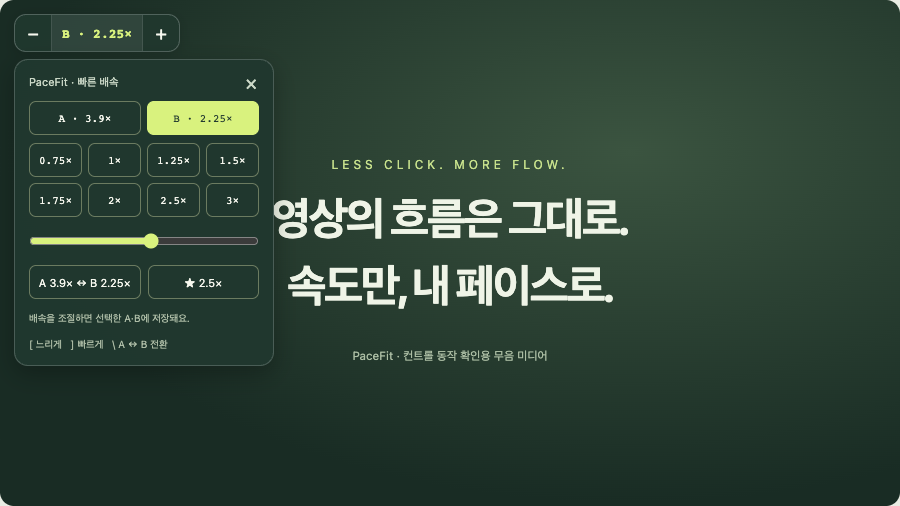
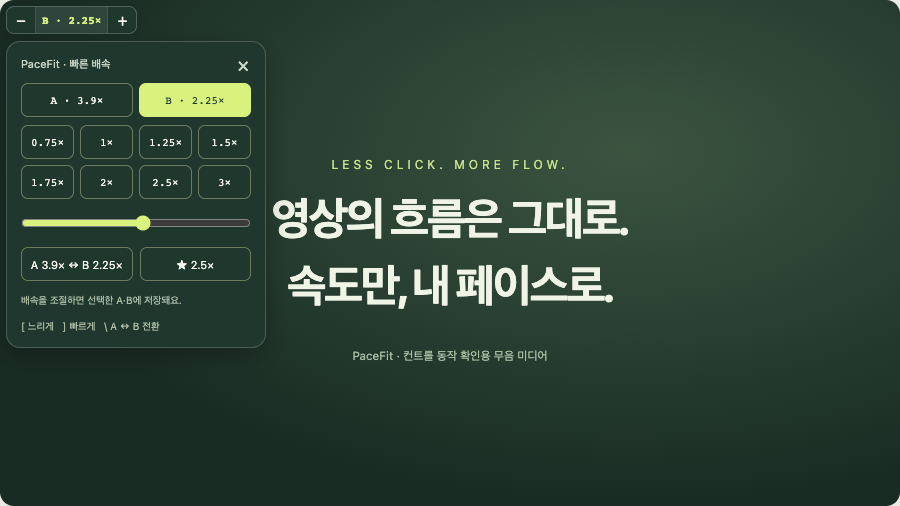
Shrink video speed controls and move closer to corner

Changed region(s): [[0.0, 0.0, 0.3111, 0.7115], [0.28, 0.5336, 0.3111, 0.5929]]

diff --git a/extension/overlay.js b/extension/overlay.js
@@ -5,12 +5,12 @@
     const host = document.createElement('div'); host.id = 'pacefit-controller';
     const shadow = host.attachShadow({ mode: 'open' });
     shadow.innerHTML = `<style>
-      :host{position:fixed!important;top:var(--pacefit-top,14px)!important;left:var(--pacefit-left,14px)!important;z-index:2147483647!important;font:13px -apple-system,BlinkMacSystemFont,"Segoe UI",sans-serif!important;color:#f7f8ef!important;line-height:1.4!important;letter-spacing:0!important;text-align:left!important;pointer-events:none!important;color-scheme:dark}
+      :host{position:fixed!important;top:var(--pacefit-top,6px)!important;left:var(--pacefit-left,6px)!important;z-index:2147483647!important;font:13px -apple-system,BlinkMacSystemFont,"Segoe UI",sans-serif!important;color:#f7f8ef!important;line-height:1.4!important;letter-spacing:0!important;text-align:left!important;pointer-events:none!important;color-scheme:dark}
       *{box-sizing:border-box}button,input{font:inherit}button{cursor:pointer;color:inherit}button:focus-visible,input:focus-visible{outline:3px solid #d9f27e;outline-offset:3px}button:disabled{opacity:.45;cursor:default}[hidden]{display:none!important}
       .controls{opacity:0;pointer-events:none;transition:opacity .15s}:host([data-hovered]) .controls,.controls:has(:focus-visible){opacity:1;pointer-events:auto}
-      .feedback{position:absolute;top:0;left:0;min-width:108px;white-space:nowrap;height:38px;padding:0 14px;display:flex;align-items:center;justify-content:center;border:1px solid #ffffff38;border-radius:12px;background:#20372ef0;box-shadow:0 2px 12px #0002;color:#d9f27e;font:600 15px ui-monospace,SFMono-Regular,monospace;opacity:0;pointer-events:none;transition:opacity .15s}:host([data-feedback]) .feedback{opacity:1}:host([data-hovered][data-controls-enabled]) .feedback,.controls:has(:focus-visible)~.feedback{opacity:0}
-      .bar{display:flex;align-items:center;width:max-content;border:1px solid #ffffff38;border-radius:12px;background:#20372ef0;box-shadow:0 2px 12px #0002;opacity:.85;transition:opacity .15s}.bar:hover,.bar:focus-within,.bar.open{opacity:1}
-      .bar button{border:0;background:none;min-width:36px;height:36px;padding:0 9px;font-size:19px}.bar button:hover{background:#ffffff12}.bar button:first-child{border-radius:11px 0 0 11px}.bar button:last-child{border-radius:0 11px 11px 0}.bar #speed{font:600 13px ui-monospace,SFMono-Regular,monospace;color:#d9f27e;min-width:92px;border-left:1px solid #ffffff18;border-right:1px solid #ffffff18}
+      .feedback{position:absolute;top:0;left:0;min-width:76px;white-space:nowrap;height:28px;padding:0 8px;display:flex;align-items:center;justify-content:center;border:1px solid #ffffff38;border-radius:8px;background:#20372ef0;box-shadow:0 2px 12px #0002;color:#d9f27e;font:600 11px ui-monospace,SFMono-Regular,monospace;opacity:0;pointer-events:none;transition:opacity .15s}:host([data-feedback]) .feedback{opacity:1}:host([data-hovered][data-controls-enabled]) .feedback,.controls:has(:focus-visible)~.feedback{opacity:0}
+      .bar{display:flex;align-items:center;width:max-content;border:1px solid #ffffff38;border-radius:8px;background:#20372ef0;box-shadow:0 2px 12px #0002;opacity:.85;transition:opacity .15s}.bar:hover,.bar:focus-within,.bar.open{opacity:1}
+      .bar button{border:0;background:none;min-width:28px;height:26px;padding:0 6px;font-size:16px}.bar button:hover{background:#ffffff12}.bar button:first-child{border-radius:7px 0 0 7px}.bar button:last-child{border-radius:0 7px 7px 0}.bar #speed{font:600 11px ui-monospace,SFMono-Regular,monospace;color:#d9f27e;min-width:68px;border-left:1px solid #ffffff18;border-right:1px solid #ffffff18}
       .panel{width:260px;margin-top:7px;padding:14px;border:1px solid #ffffff30;border-radius:14px;background:#20372efa;box-shadow:0 8px 24px #0004}.heading{display:flex;align-items:center;justify-content:space-between;margin-bottom:12px;font-size:11px;color:#cbd8c7}.heading button{width:28px;height:28px;margin:-7px -6px -7px 0;border:0;background:none;font-size:20px}
       .presets{display:grid;grid-template-columns:repeat(4,1fr);gap:6px}.presets button,.actions button{border:1px solid #6b7b60;border-radius:7px;background:none;padding:8px 3px;font:11px ui-monospace,SFMono-Regular,monospace;min-height:34px}.presets button[aria-pressed=true]{background:#d9f27e;color:#20372e;border-color:#d9f27e}.presets button:hover,.actions button:hover{border-color:#d9f27e}input[type=range]{width:100%;margin:16px 0;accent-color:#d9f27e;cursor:pointer}.actions{display:flex;gap:7px}.actions button{flex:1;font:11px -apple-system,BlinkMacSystemFont,sans-serif}.help{margin:12px 0 0;color:#aebda7;font-size:10px}.sr{position:absolute;width:1px;height:1px;clip:rect(0,0,0,0);overflow:hidden}
       .slot-presets{grid-template-columns:repeat(2,1fr);margin-bottom:8px}

diff --git a/extension/content.js b/extension/content.js
@@ -162,8 +162,8 @@
     if (!host || !selected) return;
     const rect = anchorRect(), visible = rect && rectVisible(rect);
     const audio = selected.media.tagName === 'AUDIO';
-    const left = visible ? C.clamp(rect.left + 14, 8, Math.max(8, innerWidth - (panelOpen ? 268 : 170))) : 14;
-    const top = visible ? C.clamp(audio ? rect.top - 44 : rect.top + 14, 8, Math.max(8, innerHeight - 44)) : 14;
+    const left = visible ? C.clamp(rect.left + 6, 4, Math.max(4, innerWidth - (panelOpen ? 264 : 130))) : 6;
+    const top = visible ? C.clamp(audio ? rect.top - 34 : rect.top + 6, 4, Math.max(4, innerHeight - 32)) : 6;
     host.style.setProperty('--pacefit-left', `${left}px`); host.style.setProperty('--pacefit-top', `${top}px`);
     const hovered = Boolean(visible && (containsPoint(rect, pointer) || (host.hasAttribute('data-hovered') || panelOpen) && containsPoint(host.getBoundingClientRect(), pointer)));
     host.toggleAttribute('data-hovered', hovered);
